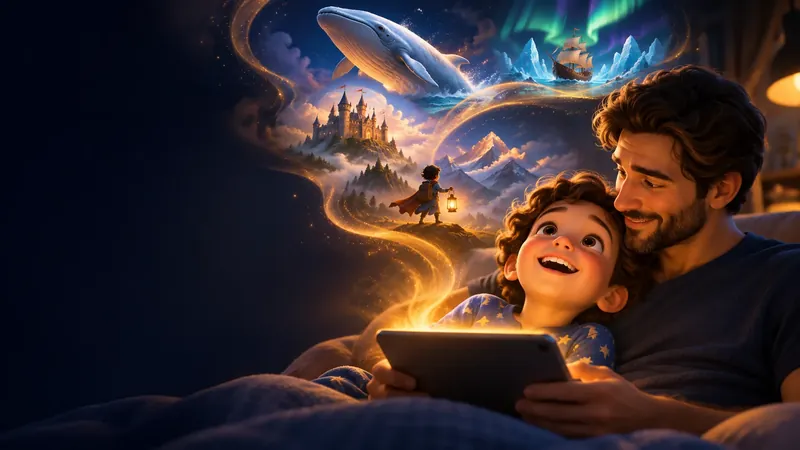
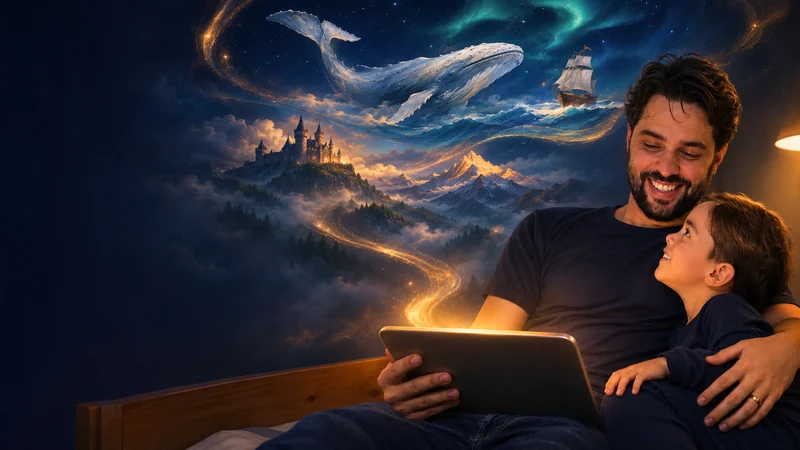
Landing: topo com a foto real de pai e filho
Claude-Session: https://claude.ai/code/session_01KvAZ7XPPHCjHbd3L7L9vJR

diff --git a/landing/index.html b/landing/index.html
@@ -29,7 +29,7 @@
 <link rel="apple-touch-icon" href="../images/marca/apple-touch-icon.png">
 <link rel="preconnect" href="https://fonts.googleapis.com">
 <link rel="preconnect" href="https://fonts.gstatic.com" crossorigin>
-<link rel="preload" as="image" href="../images/hero/hero-pai-e-filho.webp" imagesrcset="../images/hero/hero-pai-e-filho-800.webp 800w, ../images/hero/hero-pai-e-filho-1200.webp 1200w, ../images/hero/hero-pai-e-filho.webp 1672w" imagesizes="100vw" fetchpriority="high">
+<link rel="preload" as="image" href="../images/hero/hero-pai-e-filho.webp?v=2" imagesrcset="../images/hero/hero-pai-e-filho-800.webp?v=2 800w, ../images/hero/hero-pai-e-filho-1200.webp?v=2 1200w, ../images/hero/hero-pai-e-filho.webp?v=2 1672w" imagesizes="100vw" fetchpriority="high">
 <link href="https://fonts.googleapis.com/css2?family=Poppins:wght@600;700;800&family=Nunito+Sans:wght@400;600;700&family=Literata:ital,opsz,wght@1,7..72,500;1,7..72,600&display=swap" rel="stylesheet">
 <style>
 /* VOICE  occasion: a bedtime-story catalogue for parents, warm and unhurried
@@ -564,7 +564,7 @@ details[open] summary::after{transform:rotate(180deg)}
 </nav>
 
 <header class="hero" id="topo">
-  <img fetchpriority="high" width="1672" height="941" src="../images/hero/hero-pai-e-filho.webp" srcset="../images/hero/hero-pai-e-filho-800.webp 800w, ../images/hero/hero-pai-e-filho-1200.webp 1200w, ../images/hero/hero-pai-e-filho.webp 1672w" sizes="100vw" alt="Pai e filho lendo juntos à noite; da tela saem uma baleia branca, um navio no gelo e um castelo">
+  <img fetchpriority="high" width="1672" height="941" src="../images/hero/hero-pai-e-filho.webp?v=2" srcset="../images/hero/hero-pai-e-filho-800.webp?v=2 800w, ../images/hero/hero-pai-e-filho-1200.webp?v=2 1200w, ../images/hero/hero-pai-e-filho.webp?v=2 1672w" sizes="100vw" alt="Pai e filho lendo juntos à noite no tablet; da tela sobe uma luz que vira uma baleia branca, um navio e um castelo">
   <div class="txt">
     <p class="eyebrow">Do nascimento aos 8 anos</p>
     <h1>Histórias para ler <span>juntos</span></h1>
